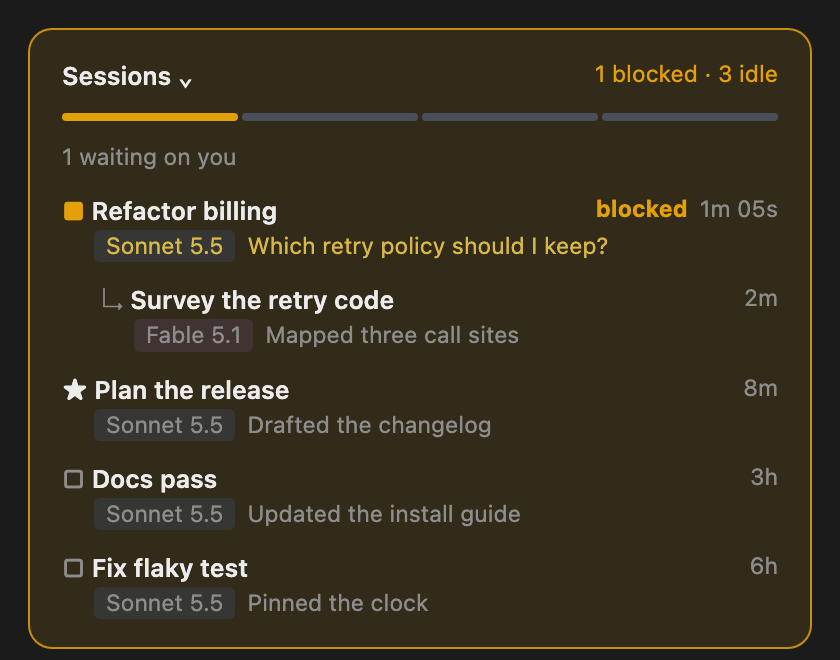
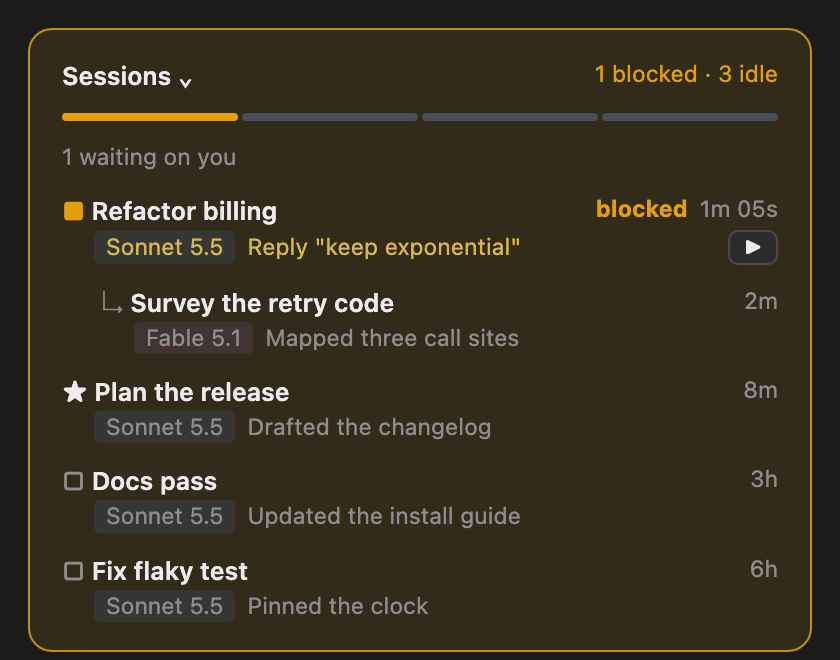
README: Sessions play button in the text and screenshots

diff --git a/README.md b/README.md
@@ -29,7 +29,7 @@ The pane opens beside the chat. Green-to-red bars are your usage, with a line sa
 
 The Sessions card (collapsed by default, above Agents) lists your desktop sessions from the last day. Each is blocked on a question for you, active (it or one of its agents is working right now), or idle. A line under the bar always says how many are waiting on you, and a blocked session shows its question in amber, even when the card is collapsed, so you do not have to open each chat to find the one that is stuck. While anything is waiting on you, the whole card gets a pulsing amber border and a faint amber background, so it catches your eye from across the pane.
 
-A blocked session whose ask is one step gets a **▶** on its row. `run /reload-plugins --force` in the session you are in runs that command; `say "build it"` in another session sends it that reply. The ask has to be written in that form in the session's `YOU:` line, and a question with several options gets no ▶.
+A blocked session whose ask is one step gets a **▶** at the right of its row, in the expanded card and in the collapsed one. The row names what the button will do: `Run /reload-plugins --force` runs that command in the session you are in, and `Reply "build it"` sends that reply to another session. Click it and the answer goes through without opening the chat. If it fails, a short message appears under the card. The ask has to be written in that form in the session's `YOU:` line, and a question with several options gets no ▶, only the question in amber.
 
 Sessions started by another session nest under it with a ↳, like subagents do, and a ★ marks the session you are in.
 
@@ -75,7 +75,7 @@ A failed Open or Create PR shows its reason in red under the rows. The card disa
 
 ## Good to know
 
-- Agents and sessions are listed alphabetically, each parent followed by its children, so rows never jump around as their state changes. Colour and the amber Sessions border show what is waiting on you.
+- Agents and sessions are listed alphabetically, each parent followed by its children, so rows never jump around as their state changes. Colour, the amber Sessions border and the ▶ button show what is waiting on you.
 - A session stays "working" through a long tool call (a test run, a build) for up to 15 minutes, and its row shows what the call is.
 - Codex and Claude usage appear only when there is a reading. No Codex, no Codex card.
 - A tmux session started by `wt.sh` (for example a Codex run) shows under the Claude session that owns it, with its run state (FAILED, DIED, TIMEOUT turn the row red). This reads `data-scratch/sessions/*.json` in your repos.
